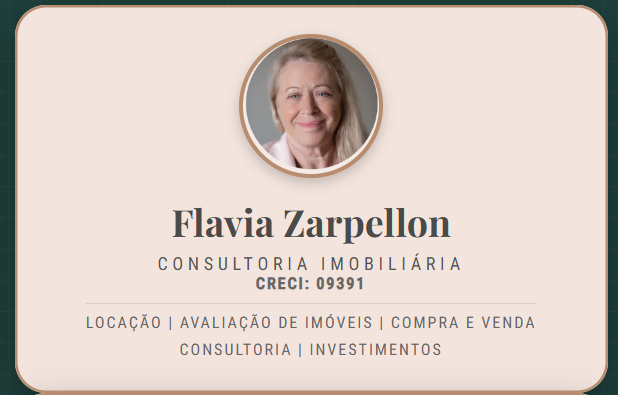
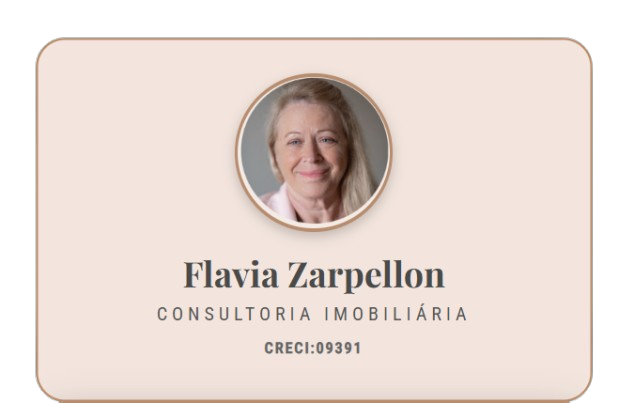
feat: atualiza mensagem de contato do whatsapp

diff --git a/index.html b/index.html
@@ -7,7 +7,7 @@
     <title>Flavia Zarpellon | Consultora Imobiliária</title>
 
     <meta property="og:title" content="Flavia Zarpellon | Consultora Imobiliária">
-    <meta property="og:description" content="Locação, Avaliação de Imóveis, Compra e Venda, Consultoria e Investimentos.">
+    <meta property="og:description" content="Consultoria Imobiliária e Investimentos.">
     <meta property="og:url" content="https://flavia-zarpellon.github.io/digital-card-zarpellon/">
     <meta property="og:image" content="https://flavia-zarpellon.github.io/digital-card-zarpellon/foto-compartilhar.png">
     <meta property="og:type" content="website">
@@ -36,21 +36,9 @@
 
                     <div class="prof-identity">
                         <p class="main-role">Consultoria Imobiliária</p>
-<p class="creci-number">
-    <a href="https://www.crecisp.gov.br/cidadao/buscaporcorretores">
-        CRECI:09391
-    </a>
-</p>
+                        <p class="creci-number">CRECI:09391</p>
                     </div>
 
-                    <p class="specialties">
-                        <a href="https://wa.me/5511941824766?text=Olá%2C%20Flavia!%20Tudo%20bem%3F%20Vi%20seu%20contato%20no%20seu%20cartão%20digital.%20Gostaria%20de%20informações%20sobre%20Locação" target="_blank" class="spec-item">Locação</a> |
-                        <a href="https://wa.me/5511941824766?text=Olá%2C%20Flavia!%20Tudo%20bem%3F%20Vi%20seu%20contato%20no%20seu%20cartão%20digital.%20Gostaria%20de%20informações%20sobre%20Avaliação%20de%20Imóveis" target="_blank" class="spec-item">Avaliação de Imóveis</a> |
-                        <a href="https://wa.me/5511941824766?text=Olá%2C%20Flavia!%20Tudo%20bem%3F%20Vi%20seu%20contato%20no%20seu%20cartão%20digital.%20Gostaria%20de%20informações%20sobre%20Compra%20e%20Venda" target="_blank" class="spec-item">Compra e Venda</a>
-                        <br>
-                        <a href="https://wa.me/5511941824766?text=Olá%2C%20Flavia!%20Tudo%20bem%3F%20Vi%20seu%20contato%20no%20seu%20cartão%20digital.%20Gostaria%20de%20informações%20sobre%20Consultoria%20Imobiliária" target="_blank" class="spec-item">Consultoria</a> |
-                        <a href="https://wa.me/5511941824766?text=Olá%2C%20Flavia!%20Tudo%20bem%3F%20Vi%20seu%20contato%20no%20seu%20cartão%20digital.%20Gostaria%20de%20informações%20sobre%20Investimentos%20imobiliários" target="_blank" class="spec-item">Investimentos</a>
-                    </p>
                 </div>
             </div>
 
@@ -73,7 +61,7 @@
                             flaviazarpelao@gmail.com
                         </a>
 
-                        <a href="https://wa.me/5511941824766?text=Olá%2C%20Flavia!%20Tudo%20bem%3F%0AVi%20seu%20contato%20no%20seu%20cartão%20digital.%0A%0AGostaria%20de%20informações%20sobre%3A%0A%0A%E2%9C%85%20Consultoria%20Imobiliária%0A%E2%9C%85%20Avaliação%20de%20Imóveis%0A%E2%9C%85%20Locação%0A%E2%9C%85%20Compra%20e%20Venda%20de%20Imóveis%0A%E2%9C%85%20Investimentos%20Imobiliários"
+                        <a href="https://wa.me/5511941824766?text=Olá%2C%20Flavia!%20Tudo%20bem%3F%20Vi%20seu%20contato%20no%20seu%20cartão%20digital.%20Estou%20entrando%20em%20contato%20para%20solicitar%20informações%20sobre%20sua%20consultoria%20imobiliária."
                             target="_blank" class="link-contato whatsapp-line">
                             <svg class="whatsapp-icon" width="18" height="18" viewBox="0 0 448 512" fill="currentColor">
                                 <path d="M380.9 97.1C339 55.1 283.2 32 223.9 32c-122.4 0-222 99.6-222 222 0 39.1 10.2 77.3 29.6 111L0 480l117.7-30.9c32.4 17.7 68.9 27 106.1 27h.1c122.3 0 224.1-99.6 224.1-222 0-59.3-25.2-115-67.1-117zm-157 338.7h-.1c-33.2 0-65.7-8.9-93.9-25.7l-6.7-4-69.8 18.3L72 359.2l-4.4-7c-18.5-29.4-28.2-63.3-28.2-98.2 0-101.7 82.8-184.5 184.6-184.5 49.3 0 95.6 19.2 130.4 54.1 34.8 34.9 56.2 81.2 56.1 130.5 0 101.8-84.9 184.6-186.6 184.6zm101.2-138.2c-5.5-2.8-32.8-16.2-37.9-18-5.1-1.9-8.8-2.8-12.5 2.8-3.7 5.6-14.3 18-17.6 21.8-3.2 3.7-6.5 4.2-12 1.4-5.5-2.8-23.2-8.5-44.2-27.1-16.4-14.6-27.4-32.6-30.6-38.1-3.2-5.6-.3-8.6 2.5-11.4 2.5-2.5 5.5-6.5 8.3-9.7 2.8-3.2 3.7-5.6 5.5-9.3 1.8-3.7.9-6.9-.5-9.7-1.4-2.8-12.5-30.1-17.1-41.2-4.5-10.8-9.1-9.3-12.5-9.5-3.2-.2-6.9-.2-10.6-.2-3.7 0-9.7 1.4-14.8 6.9-5.1 5.6-19.4 19-19.4 46.3 0 27.3 19.9 53.7 22.6 57.4 2.8 3.7 39.1 59.7 94.8 83.8 13.2 5.8 23.5 9.2 31.5 11.8 13.3 4.2 25.4 3.6 35 2.2 10.7-1.6 32.8-13.4 37.4-26.4 4.6-13 4.6-24.1 3.2-26.4-1.3-2.5-5-3.9-10.5-6.6z" />
@@ -87,7 +75,7 @@
         </div>
     </div>
 
-    <a href="https://wa.me/5511941824766?text=Olá%2C%20Flavia!%20Tudo%20bem%3F%0AVi%20seu%20contato%20no%20seu%20cartão%20digital.%0A%0AGostaria%20de%20informações%20sobre%3A%0A%0A%E2%9C%85%20Consultoria%20Imobiliária%0A%E2%9C%85%20Avaliação%20de%20Imóveis%0A%E2%9C%85%20Locação%0A%E2%9C%85%20Compra%20e%20Venda%20de%20Imóveis%0A%E2%9C%85%20Investimentos%20Imobiliários"
+    <a href="https://wa.me/5511941824766?text=Olá%2C%20Flavia!%20Tudo%20bem%3F%20Vi%20seu%20contato%20no%20seu%20cartão%20digital.%20Estou%20entrando%20em%20contato%20para%20solicitar%20informações%20sobre%20sua%20consultoria%20imobiliária."
         class="whatsapp-float" target="_blank">
         <svg viewBox="0 0 32 32">
             <path d="M16 0c-8.837 0-16 7.163-16 16 0 2.825 0.737 5.481 2.025 7.787l-2.025 7.413 7.587-1.987c2.231 1.137 4.756 1.787 7.413 1.787 8.837 0 16-7.163 16-16s-7.163-16-16-16zM23.525 22.312c-0.313 0.875-1.556 1.6-2.125 1.712-0.575 0.113-1.137 0.2-3.837-0.9-3.325-1.362-5.463-4.737-5.625-4.962-0.162-0.225-1.325-1.763-1.325-3.363 0-1.6 0.837-2.387 1.137-2.7 0.3-0.313 0.662-0.387 0.887-0.387s0.45 0.013 0.637 0.025c0.2 0.013 0.462-0.075 0.725 0.562 0.262 0.637 0.9 2.2 0.975 2.362s0.125 0.35 0.025 0.562c-0.1 0.2-0.15 0.337-0.3 0.512-0.15 0.162-0.313 0.375-0.45 0.5-0.15 0.15-0.313 0.313-0.137 0.613 0.175 0.3 0.775 1.275 1.662 2.062 1.15 1.013 2.112 1.325 2.413 1.475 0.3 0.15 0.475 0.125 0.65-0.075 0.175-0.2 0.75-0.875 0.95-1.175s0.4-0.25 0.675-0.15c0.275 0.1 1.737 0.825 2.037 0.975s0.5 0.225 0.575 0.35c0.075 0.125 0.075 0.725-0.237 1.6z"></path>

diff --git a/style.css b/style.css
@@ -82,8 +82,8 @@ body {
 
 /* FOTO CIRCULAR (FRENTE) */
 .foto-container {
-    width: 115px;
-    height: 115px;
+    width: 135px;
+    height: 135px;
     margin-bottom: 15px;
     border-radius: 50%;
     padding: 3px; 
@@ -120,9 +120,10 @@ body {
 .main-role {
     font-family: 'Roboto Condensed', sans-serif;
     text-transform: uppercase;
-    font-size: 14px;
+    font-size: 16px;
     letter-spacing: 4px;
     color: #555;
+    margin-bottom: 12px;
 }
 
 .creci-number {
